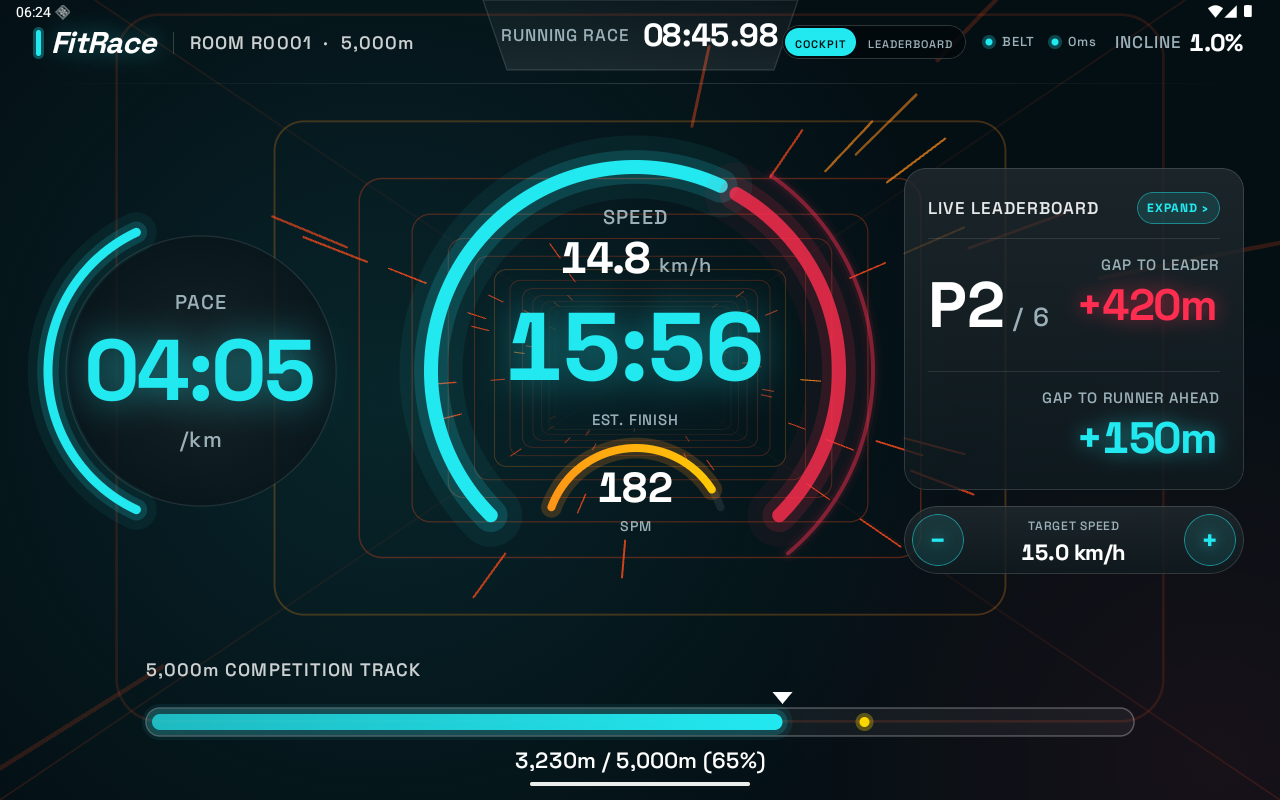
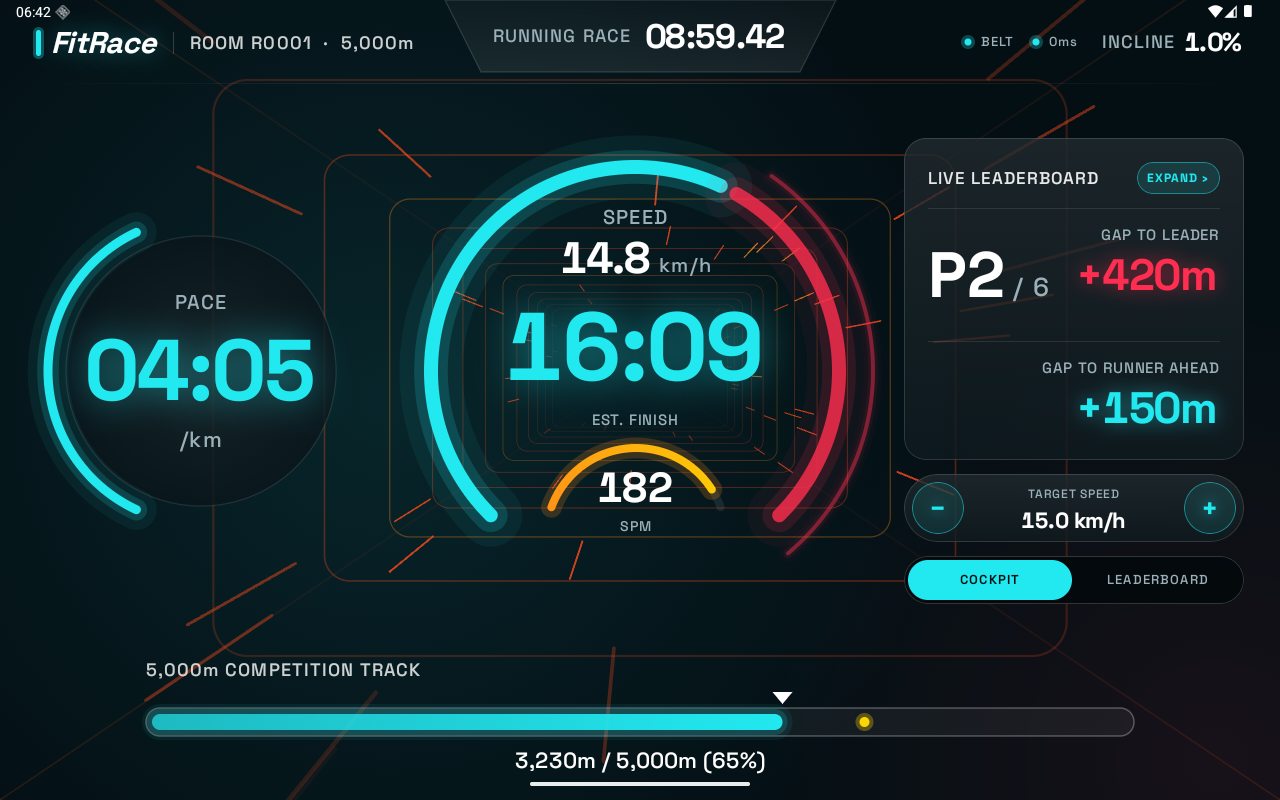
refactor(android): relocate view mode toggle to bottom-right controls area and clean up top bar

diff --git a/android/app/src/main/java/com/fitrace/runner/MainActivity.kt b/android/app/src/main/java/com/fitrace/runner/MainActivity.kt
@@ -678,7 +678,7 @@ private fun Hud(s: RaceUiState, vm: RaceViewModel) {
         TunnelBackdrop(s.speedKmh)
 
         Column(Modifier.fillMaxSize().padding(start = (36 * k).dp, end = (36 * k).dp, bottom = (26 * k).dp)) {
-            TopBar(s, now, startAt, phase, k, onLeave = { vm.leaveToLobby() }, onToggleViewMode = { vm.toggleViewMode() })
+            TopBar(s, now, startAt, phase, k, onLeave = { vm.leaveToLobby() })
             Box(Modifier.weight(1f).fillMaxWidth(), contentAlignment = Alignment.Center) {
                 androidx.compose.animation.AnimatedVisibility(
                     visible = s.viewMode == RaceViewMode.COCKPIT,
@@ -692,8 +692,10 @@ private fun Hud(s: RaceUiState, vm: RaceViewModel) {
                         Spacer(Modifier.weight(1f))
                         Column {
                             LeaderboardCard(s, k, onExpand = { vm.setViewMode(RaceViewMode.LEADERBOARD) })
-                            Spacer(Modifier.height((16 * k).dp))
+                            Spacer(Modifier.height((14 * k).dp))
                             SpeedControl(s, vm, s.canAdjustSpeed(now), k)
+                            Spacer(Modifier.height((14 * k).dp))
+                            ViewModeToggle(s.viewMode, k, onToggle = { vm.toggleViewMode() })
                         }
                     }
                 }
@@ -1085,45 +1087,55 @@ private class CountdownAudio(context: Context) {
     }
 }
 
-/* ── 頂列與視角切換 ── */
+/* ── 視角切換膠囊（儀表板右下角 / 排行榜頂列） ── */
 
 @Composable
 private fun ViewModeToggle(
     current: RaceViewMode,
     k: Float,
+    modifier: Modifier = Modifier.width((340 * k).dp),
     onToggle: () -> Unit,
 ) {
     Row(
-        Modifier.height((34 * k).dp)
-            .glass(k, Color.White.copy(alpha = .18f), Color.Black.copy(alpha = .40f), radius = 50f)
-            .padding((2.5f * k).dp),
+        modifier
+            .height((48 * k).dp)
+            .glass(k, Color.White.copy(alpha = .18f), Color.Black.copy(alpha = .45f), radius = 50f)
+            .padding((4 * k).dp),
         verticalAlignment = Alignment.CenterVertically,
     ) {
         ModeTab(
             label = "COCKPIT",
             active = current == RaceViewMode.COCKPIT,
             k = k,
+            modifier = Modifier.weight(1f).fillMaxHeight(),
             onClick = { if (current != RaceViewMode.COCKPIT) onToggle() },
         )
-        Spacer(Modifier.width((2 * k).dp))
+        Spacer(Modifier.width((4 * k).dp))
         ModeTab(
             label = "LEADERBOARD",
             active = current == RaceViewMode.LEADERBOARD,
             k = k,
+            modifier = Modifier.weight(1f).fillMaxHeight(),
             onClick = { if (current != RaceViewMode.LEADERBOARD) onToggle() },
         )
     }
 }
 
 @Composable
-private fun ModeTab(label: String, active: Boolean, k: Float, onClick: () -> Unit) {
+private fun ModeTab(
+    label: String,
+    active: Boolean,
+    k: Float,
+    modifier: Modifier = Modifier,
+    onClick: () -> Unit,
+) {
     val bg = if (active) Cyan else Color.Transparent
     val textC = if (active) Carbon else Label
     Box(
-        Modifier.clip(RoundedCornerShape(50))
+        modifier
+            .clip(RoundedCornerShape(50))
             .background(bg)
-            .clickable(onClick = onClick)
-            .padding(horizontal = (10 * k).dp, vertical = (4 * k).dp),
+            .clickable(onClick = onClick),
         contentAlignment = Alignment.Center,
     ) {
         Text(
@@ -1131,17 +1143,18 @@ private fun ModeTab(label: String, active: Boolean, k: Float, onClick: () -> Uni
             color = textC,
             fontFamily = Grotesk,
             fontWeight = if (active) FontWeight.Bold else FontWeight.Medium,
-            fontSize = (11 * k).sp,
-            letterSpacing = (1.0 * k).sp,
+            fontSize = (13 * k).sp,
+            letterSpacing = (1.2 * k).sp,
         )
     }
 }
+
+/* ── 頂列（乾淨無多餘切換鈕） ── */
 
 @Composable
 private fun TopBar(
     s: RaceUiState, now: Long, startAt: Long?, phase: CountdownPhase, k: Float,
     onLeave: () -> Unit,
-    onToggleViewMode: () -> Unit = {},
 ) = Box(Modifier.fillMaxWidth().height((84 * k).dp)) {
     Row(Modifier.align(Alignment.CenterStart), verticalAlignment = Alignment.CenterVertically) {
         FitRaceLogo(k)
@@ -1157,9 +1170,9 @@ private fun TopBar(
 
     // 中央梯形頁籤：狀態 + 比賽計時
     Row(
-        Modifier.align(Alignment.TopCenter).height((70 * k).dp)
+        Modifier.align(Alignment.TopCenter).height((72 * k).dp)
             .drawBehind {
-                val slant = 24f * k
+                val slant = 36f * k
                 val tab = Path().apply {
                     moveTo(0f, 0f); lineTo(size.width, 0f)
                     lineTo(size.width - slant, size.height); lineTo(slant, size.height); close()
@@ -1167,7 +1180,7 @@ private fun TopBar(
                 drawPath(tab, Brush.verticalGradient(listOf(Color.White.copy(alpha = .03f), Color.White.copy(alpha = .08f))))
                 drawPath(tab, Color.White.copy(alpha = .14f), style = Stroke(1.2f * k))
             }
-            .padding(horizontal = (18 * k).dp),
+            .padding(horizontal = (48 * k).dp),
         verticalAlignment = Alignment.CenterVertically,
     ) {
         val counting = phase is CountdownPhase.Counting
@@ -1178,9 +1191,9 @@ private fun TopBar(
                 counting -> "GET SET"
                 s.finishTimeMs != null -> "FINISHED"
                 else -> "RUNNING RACE"
-            }, Label, k, 17f,
+            }, Label, k, 18f,
         )
-        Spacer(Modifier.width((12 * k).dp))
+        Spacer(Modifier.width((14 * k).dp))
         Glow(
             when {
                 s.dnf -> "%,dm".format(s.distance.roundToInt())
@@ -1190,25 +1203,23 @@ private fun TopBar(
                 else -> fmtClock(now - startAt)
             },
             if (s.dnf) Coral else if (counting || s.finishTimeMs != null) Gold else Color.White,
-            k, 32f, glow = counting || s.finishTimeMs != null,
+            k, 34f, glow = counting || s.finishTimeMs != null,
         )
     }
 
     Row(Modifier.align(Alignment.CenterEnd), verticalAlignment = Alignment.CenterVertically) {
-        ViewModeToggle(s.viewMode, k, onToggleViewMode)
-        Spacer(Modifier.width((16 * k).dp))
         // 截止倒數只在比賽中出現，此時不顯示離開鈕，右側有空間
         if (startAt != null && s.finishTimeMs == null && !s.closed && s.cutoffAtServerTime != null) {
             SoftLabel("CUTOFF ${fmtClock(max(0L, s.cutoffAtServerTime - now)).substringBefore('.')}", Label, k, 15f)
-            Spacer(Modifier.width((16 * k).dp))
+            Spacer(Modifier.width((20 * k).dp))
         }
         StatusDot("BELT", s.treadmillConnected, k)
-        Spacer(Modifier.width((12 * k).dp))
+        Spacer(Modifier.width((14 * k).dp))
         StatusDot(if (s.serverConnected) "${s.rttMs}ms" else "OFFLINE", s.serverConnected, k)
-        Spacer(Modifier.width((18 * k).dp))
-        SoftLabel("INCLINE", Label, k, 17f)
-        Spacer(Modifier.width((6 * k).dp))
-        Glow("%.1f%%".format(s.incline), Color.White, k, 24f, glow = false)
+        Spacer(Modifier.width((24 * k).dp))
+        SoftLabel("INCLINE", Label, k, 18f)
+        Spacer(Modifier.width((8 * k).dp))
+        Glow("%.1f%%".format(s.incline), Color.White, k, 26f, glow = false)
         if (s.canLeave) {
             Spacer(Modifier.width((20 * k).dp))
             Box(
@@ -1537,24 +1548,6 @@ private fun LeaderboardView(
                             letterSpacing = (1 * k).sp,
                         )
                     }
-                    Spacer(Modifier.width((12 * k).dp))
-                    Row(
-                        Modifier.clip(RoundedCornerShape(50))
-                            .background(Cyan.copy(alpha = .12f))
-                            .border((1 * k).dp, Cyan.copy(alpha = .45f), RoundedCornerShape(50))
-                            .clickable { vm.setViewMode(RaceViewMode.COCKPIT) }
-                            .padding(horizontal = (10 * k).dp, vertical = (4 * k).dp),
-                        verticalAlignment = Alignment.CenterVertically,
-                    ) {
-                        Text(
-                            "‹ COCKPIT HUD",
-                            color = Cyan,
-                            fontFamily = Grotesk,
-                            fontWeight = FontWeight.Bold,
-                            fontSize = (11 * k).sp,
-                            letterSpacing = (1 * k).sp,
-                        )
-                    }
                 }
                 Spacer(Modifier.height((4 * k).dp))
                 SoftLabel(
@@ -1562,7 +1555,16 @@ private fun LeaderboardView(
                     Label, k, 13f,
                 )
             }
-            SpeedControl(s, vm, s.canAdjustSpeed(now), k)
+            Row(verticalAlignment = Alignment.CenterVertically) {
+                SpeedControl(s, vm, s.canAdjustSpeed(now), k)
+                Spacer(Modifier.width((16 * k).dp))
+                ViewModeToggle(
+                    current = s.viewMode,
+                    k = k,
+                    modifier = Modifier.width((280 * k).dp),
+                    onToggle = { vm.toggleViewMode() },
+                )
+            }
         }
 
         Spacer(Modifier.height((12 * k).dp))
